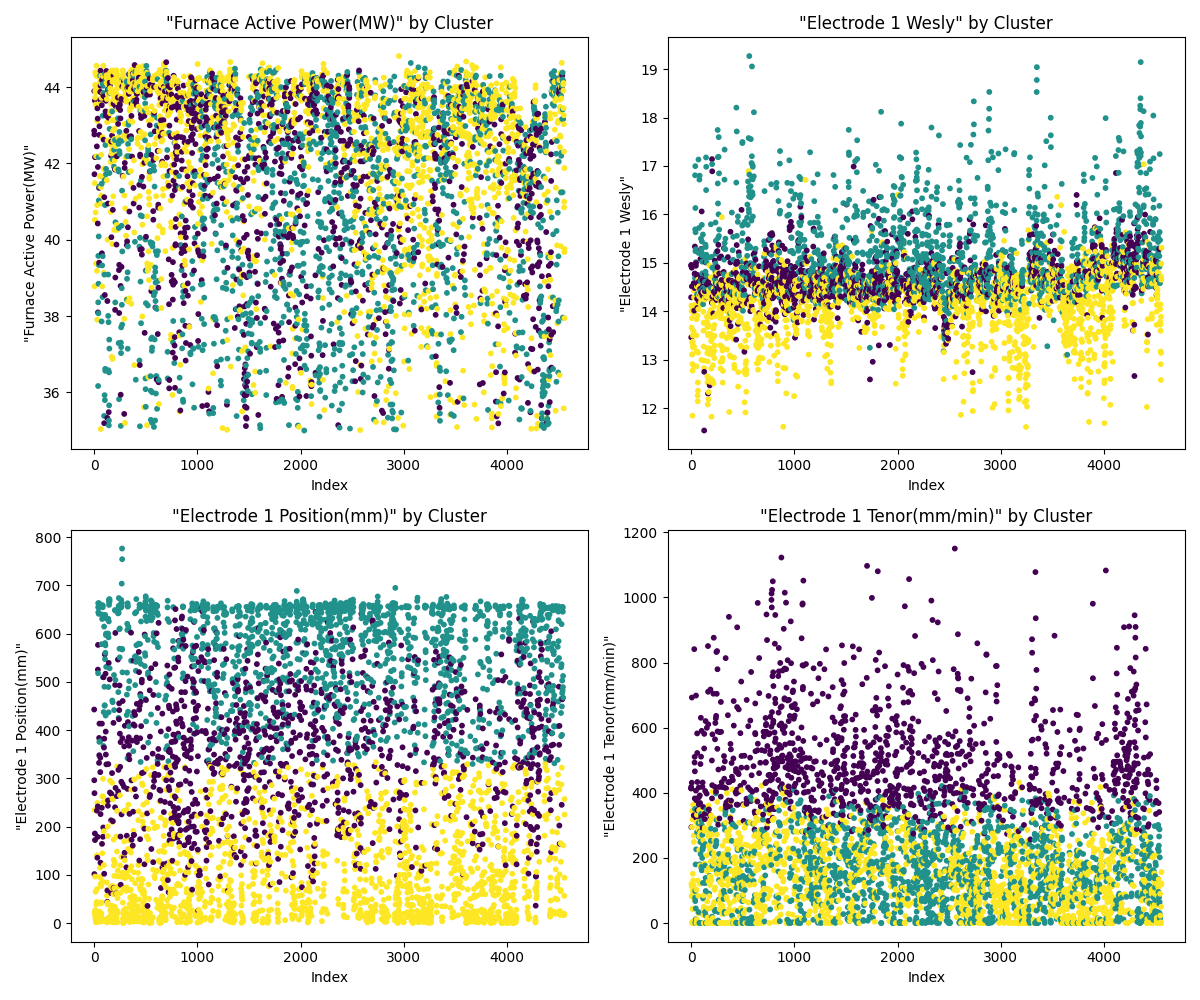
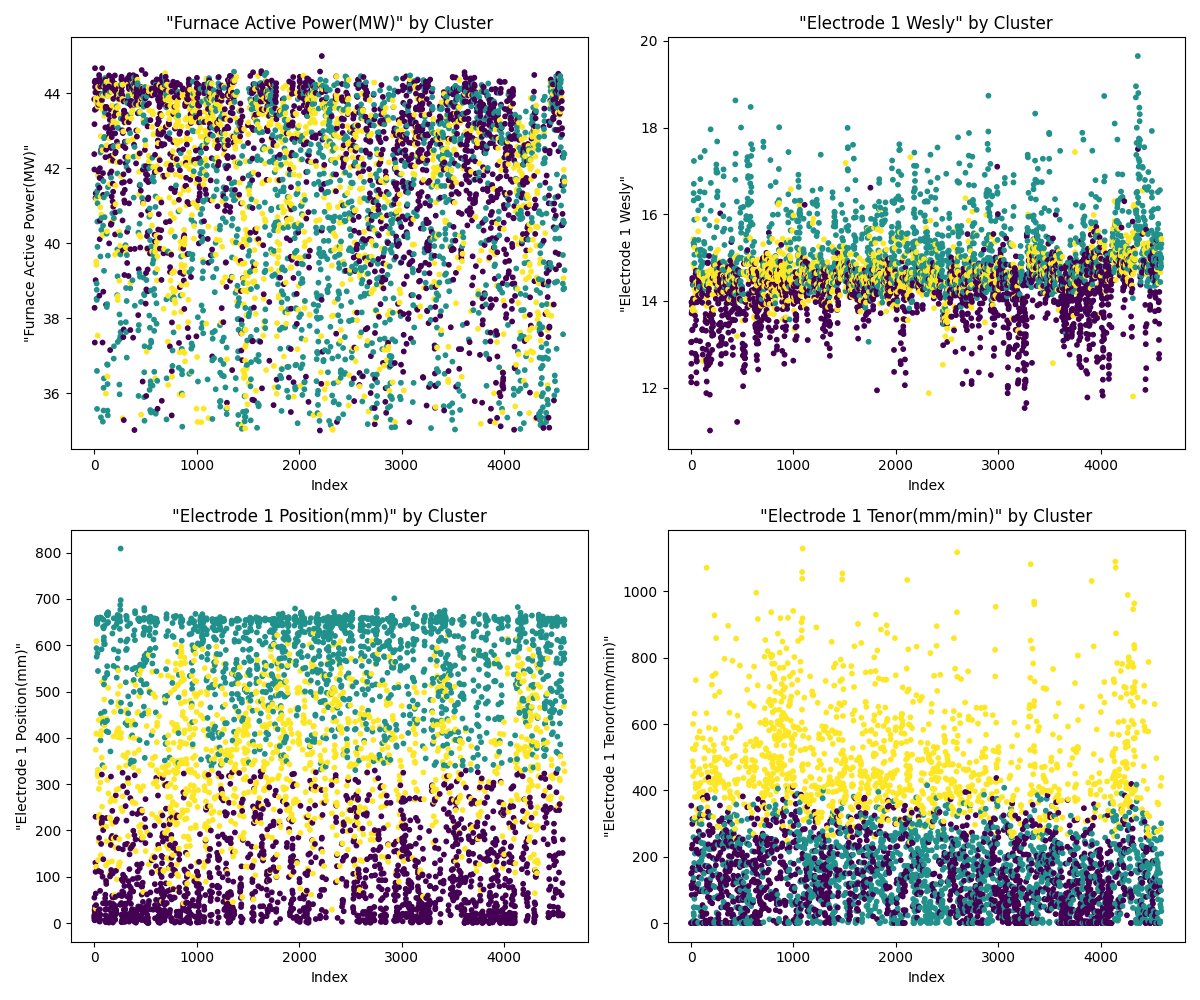
Add k-means clustering with outlier removal and visualizations

diff --git a/dashboard_app.py b/dashboard_app.py
@@ -1,0 +1,119 @@
+import dash
+from dash import html, dcc
+import logging
+import os
+import pandas as pd
+import plotly.graph_objs as go
+
+# Paths
+overlay_image_path = "assets/kmeans_cluster_overlay.png"
+short_term_data_path = "data/electrode_1_short_term.csv"
+
+# Check image exists
+if not os.path.exists(overlay_image_path):
+    logging.warning(f"Overlay image not found at: {overlay_image_path}")
+else:
+    logging.info(f"Overlay image found at: {overlay_image_path}")
+
+# Load data
+try:
+    df = pd.read_csv(short_term_data_path)
+    df['TS'] = pd.to_datetime(df['TS'], errors='coerce')
+except Exception as e:
+    logging.error(f"Failed to load short-term data: {e}")
+    df = pd.DataFrame()
+
+# Tags to display
+tags_to_display = [
+    ("Furnace Active Power(MW)", "Furnace Active Power(SP)"),
+    ("Minstral In Auto",),
+    ("Furnace Tap Changers in Auto",),
+    ("Electrode 1 in Auto",),
+    ("Electrode Control Active",),
+    ("TX12 Tap Changer Position",),
+    ("TX23 Tap Cahnger Position",),
+    ("TX31 Tap Changer Position",),
+    ("Tap Acummulator",)
+]
+
+def create_sparkline(tags):
+    trend = go.Figure()
+    colors = ["white", "orange"]
+    for idx, tag in enumerate(tags):
+        if tag in df.columns:
+            trend.add_trace(go.Scatter(
+                x=df['TS'],
+                y=df[tag],
+                mode='lines',
+                name=tag,
+                line=dict(color=colors[idx % len(colors)], width=2)
+            ))
+    trend.update_layout(
+        margin=dict(l=0, r=0, t=0, b=0),
+        height=40,
+        paper_bgcolor='rgba(0,0,0,0)',
+        plot_bgcolor='rgba(0,0,0,0)',
+        showlegend=False,
+        xaxis=dict(visible=False),
+        yaxis=dict(visible=False),
+        font=dict(size=10, color='white')
+    )
+    return dcc.Graph(figure=trend, config={"displayModeBar": False}, style={"height": "40px"})
+
+def generate_table_rows():
+    rows = []
+    for tag_group in tags_to_display:
+        display_name = tag_group[0]
+        available_tags = [tag for tag in tag_group if tag in df.columns]
+        if not available_tags:
+            continue
+        latest_vals = [df[tag].dropna().iloc[-1] if not df[tag].dropna().empty else None for tag in available_tags]
+        min_vals = [df[tag].min() for tag in available_tags]
+        max_vals = [df[tag].max() for tag in available_tags]
+        latest_display = ", ".join([f"{val:.2f}" if isinstance(val, (int, float)) else "No Data" for val in latest_vals])
+        min_display = f"{min(min_vals):.2f}"
+        max_display = f"{max(max_vals):.2f}"
+        sparkline = create_sparkline(tag_group)
+        rows.append(html.Tr([
+            html.Td(display_name),
+            html.Td(latest_display),
+            html.Td(sparkline),
+            html.Td(min_display),
+            html.Td(max_display)
+        ]))
+    return rows
+
+app = dash.Dash(__name__)
+server = app.server
+
+app.layout = html.Div([
+    html.H1("Electrode Dashboard", style={"color": "white", "padding": "10px"}),
+    html.Div([
+        html.Div([
+            html.Table([
+                html.Thead(html.Tr([html.Th("Name"), html.Th("Value"), html.Th("Trend"), html.Th("Min"), html.Th("Max")])),
+                html.Tbody(generate_table_rows())
+            ], style={"width": "100%", "color": "white", "fontSize": "12px"})
+        ], style={"flex": "1", "padding": "10px"}),
+
+        html.Div([
+            html.Img(
+                src="/kmeans_cluster_overlay.png",
+                style={
+                    "height": "800px",
+                    "width": "auto",
+                    "objectFit": "contain",
+                    "border": "1px solid #ccc",
+                    "marginLeft": "auto"
+                }
+            )
+        ], style={
+            "flex": "1", "padding": "10px", "display": "flex", "justifyContent": "flex-end"
+        })
+    ], style={"display": "flex", "backgroundColor": "#1e1e1e", "color": "white"})
+])
+
+def run_dashboard():
+    logging.info("Launching Dash dashboard...")
+    app.run(debug=False, port=8050)
+

diff --git a/scripts/kmeans_overlay.py b/scripts/kmeans_overlay.py
@@ -60,7 +60,7 @@ def run_kmeans_overlay():
     y_columns = [col for col in long_columns if col != "Electrode 1 Wesly"]
     x_column = "Electrode 1 Wesly"
 
-    fig, axes = plt.subplots(1, 3, figsize=(18, 5))
+    fig, axes = plt.subplots(3, 1, figsize=(6, 12))  # Width=6, Height=12 for tall layout
     colors = cm.rainbow([0.1, 0.5, 0.9])
     for i, y_col in enumerate(y_columns):
         ax = axes[i]
@@ -76,7 +76,7 @@ def run_kmeans_overlay():
         ax.scatter(
             X_short[x_column],
             X_short[y_col],
-            color="navy",
+            color="cyan",
             label="Short-Term",
             marker="x",
             s=20

diff --git a/main.py b/main.py
@@ -3,7 +3,7 @@ from scripts.query_long_term import run_long_term_query
 from scripts.query_short_term import run_short_term_query
 from scripts.kmeans_clustering import run_kmeans_clustering
 from scripts.kmeans_overlay import run_kmeans_overlay
-from dashboard.dashboard_app import run_dashboard
+from dashboard_app import run_dashboard
 
 logging.basicConfig(level=logging.INFO)
 
